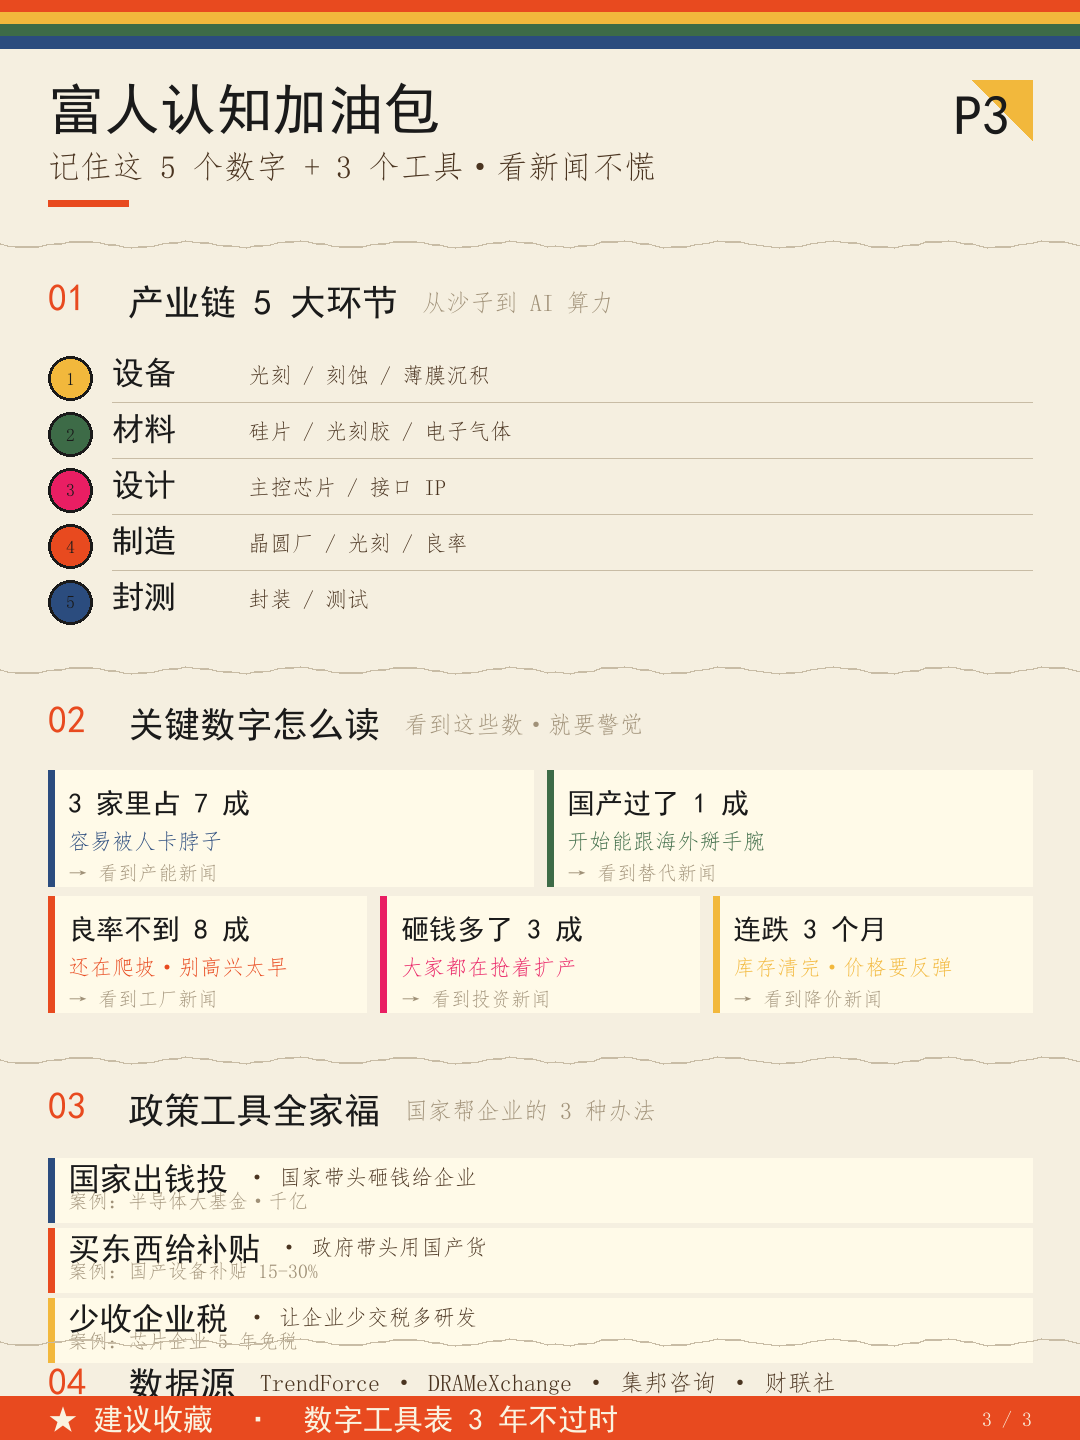
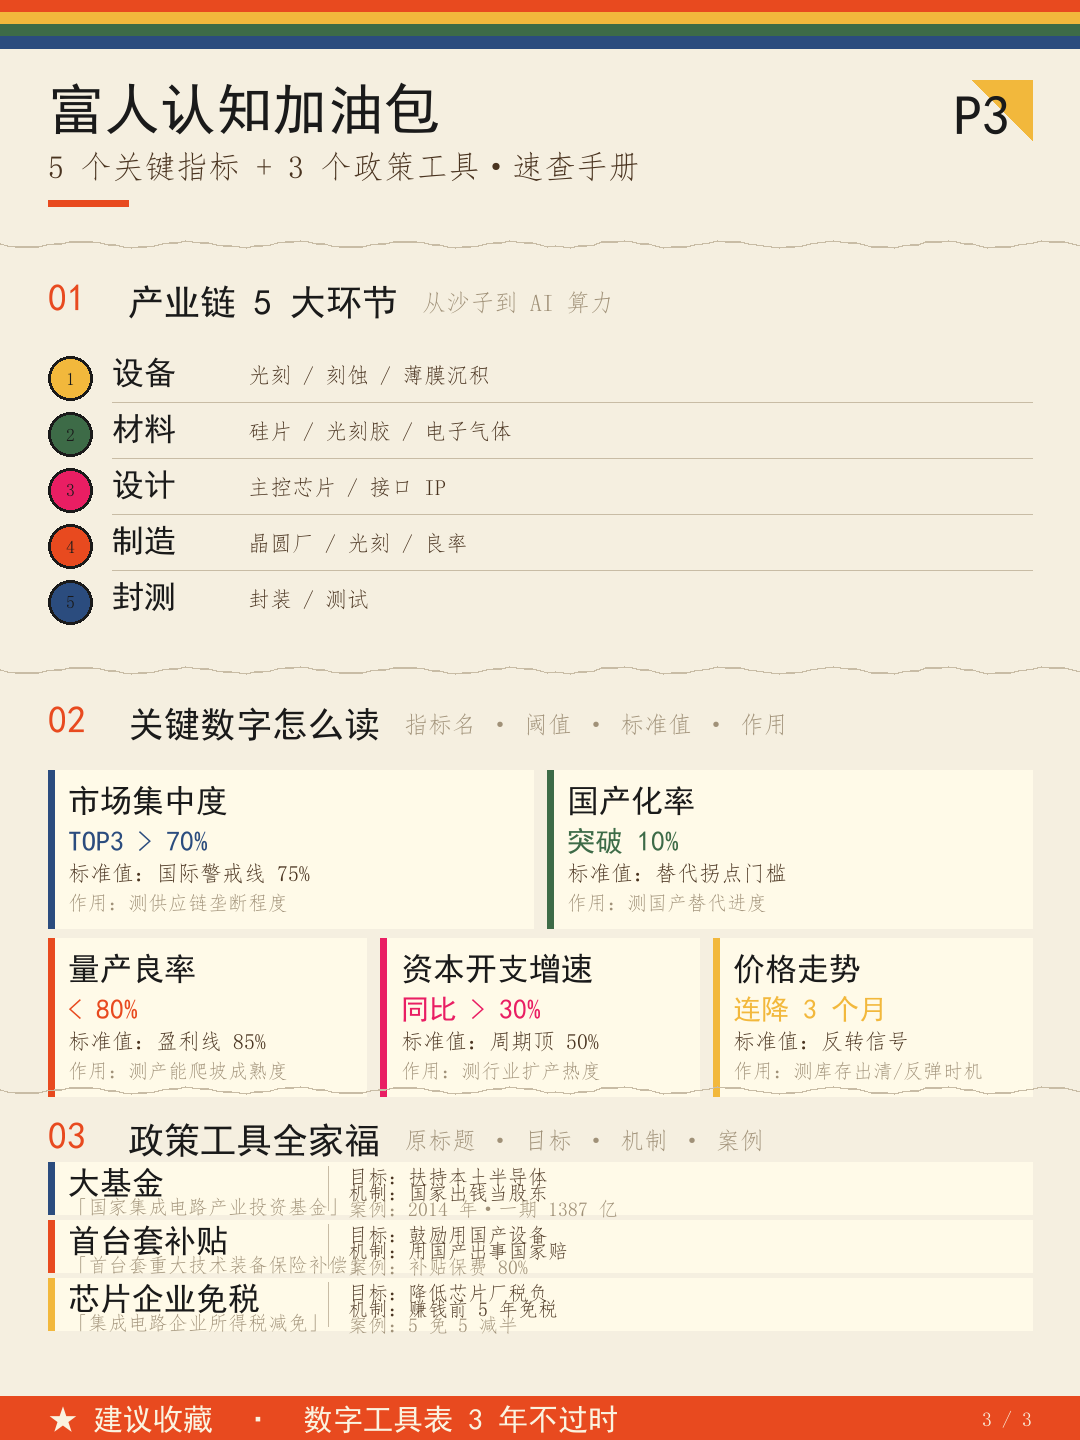
v1.1.4: page3 加信息密度·02指标名+阈值+标准值+作用·03政策全称+目标+机制+案例（砍掉04腾空间）

diff --git a/generate_page3.py b/generate_page3.py
@@ -99,7 +99,7 @@ def make_paper_bg(skeleton_path):
 
 # 顶部标题
 TITLE    = "富人认知加油包"
-SUBTITLE = "记住这 5 个数字 + 3 个工具·看新闻不慌"
+SUBTITLE = "5 个关键指标 + 3 个政策工具·速查手册"
 
 # 01 产业链/逻辑链 5 大环节（保留·已是干货骨架）
 CHAIN = [
@@ -110,25 +110,36 @@ CHAIN = [
     ("5", "封测", "封装 / 测试",             BLUE),
 ]
 
-# 02 关键数字怎么读：5 张速查卡（高于/低于 多少 = 什么信号）
-# 设计：每个数字 = 一句话就能用的判断标尺，下次看到新闻直接套
+# 02 关键数字怎么读：5 张速查卡（指标名 + 阈值 + 业内标准 + 作用）
+# 设计：每个数字 = 指标名 + 阈值 + 标准值 + 作用，下次看到新闻直接套
 # 收藏价值：工具表型·跨场景复用
 SIGNAL_CARDS = [
-    # (判断阈值, 信号含义, 适用场景, 筹码色)
-    ("3 家里占 7 成",   "容易被人卡脖子",        "看到产能新闻",     BLUE),
-    ("国产过了 1 成",  "开始能跟海外掰手腕",     "看到替代新闻",     GREEN),
-    ("良率不到 8 成",  "还在爬坡·别高兴太早",   "看到工厂新闻",     RED),
-    ("砸钱多了 3 成",  "大家都在抢着扩产",       "看到投资新闻",     PINK),
-    ("连跌 3 个月",    "库存清完·价格要反弹",   "看到降价新闻",     YELLOW),
+    # (指标名, 阈值, 标准值/对比, 作用, 筹码色)
+    ("市场集中度",     "TOP3 > 70%",   "国际警戒线 75%", "测供应链垄断程度",         BLUE),
+    ("国产化率",      "突破 10%",     "替代拐点门槛",    "测国产替代进度",           GREEN),
+    ("量产良率",      "< 80%",        "盈利线 85%",      "测产能爬坡成熟度",         RED),
+    ("资本开支增速",  "同比 > 30%",   "周期顶 50%",      "测行业扩产热度",           PINK),
+    ("价格走势",      "连降 3 个月",   "反转信号",        "测库存出清/反弹时机",      YELLOW),
 ]
 
-# 03 政策/产业工具全家福：3 件套（工具 + 用途 + 历史案例）
-# 设计：工具名 + 一句话用途 + 跨主题可换
+# 03 政策/产业工具全家福：3 件套（政策原标题 + 目标 + 机制 + 案例）
 TOOL_BOX = [
-    # (工具名, 用途, 案例, 筹码色)
-    ("国家出钱投",     "国家带头砸钱给企业",     "半导体大基金·千亿",   BLUE),
-    ("买东西给补贴",  "政府带头用国产货",       "国产设备补贴 15-30%", RED),
-    ("少收企业税",     "让企业少交税多研发",     "芯片企业 5 年免税",   YELLOW),
+    # (政策原标题, 目标, 机制, 案例, 筹码色)
+    ("大基金",
+                              "扶持本土半导体",
+                              "国家出钱当股东",
+                              "2014 年·一期 1387 亿",
+                              BLUE),
+    ("首台套补贴",
+                              "鼓励用国产设备",
+                              "用国产出事国家赔",
+                              "补贴保费 80%",
+                              RED),
+    ("芯片企业免税",
+                              "降低芯片厂税负",
+                              "赚钱前 5 年免税",
+                              "5 免 5 减半",
+                              YELLOW),
 ]
 
 # 04 数据源（一行紧凑文字）
@@ -203,7 +214,7 @@ def main():
     d.text((margin, sec2_y), "02", font=SEC_NUM, fill=RED)
     d.text((margin + 80, sec2_y + 6), "关键数字怎么读", font=SEC_NAME, fill=INK)
     d.text((margin + 80 + text_width("关键数字怎么读", SEC_NAME) + 24, sec2_y + 12),
-           "看到这些数·就要警觉", font=SEC_DESC, fill=GRAY)
+           "指标名 · 阈值 · 标准值 · 作用", font=SEC_DESC, fill=GRAY)
 
     # 5 张速查卡（上 2 下 3 排布，避免横向太挤）
     cx0 = margin
@@ -216,10 +227,10 @@ def main():
     row2_n = n_cards - row1_n
     row1_w = (cx1 - cx0 - card_gap * (row1_n - 1)) / row1_n
     row2_w = (cx1 - cx0 - card_gap * (row2_n - 1)) / row2_n
-    card_h = 116
+    card_h = 158
     row_gap = 10
 
-    for i, (threshold, signal, scenario, color) in enumerate(SIGNAL_CARDS):
+    for i, (indicator, threshold, std, role, color) in enumerate(SIGNAL_CARDS):
         if i < row1_n:
             x0 = cx0 + i * (row1_w + card_gap)
             x1 = x0 + row1_w
@@ -234,57 +245,58 @@ def main():
         d.rectangle([x0, y0, x1, y1], fill=LIGHT)
         # 左侧色条
         d.rectangle([x0, y0, x0 + 6, y1], fill=color)
-        # 阈值（大字 hero·黑体）
-        bb = d.textbbox((0, 0), threshold, font=TABLE_LBL)
-        tw = bb[2] - bb[0]
-        d.text((x0 + 20, y0 + 18), threshold, font=TABLE_LBL, fill=INK)
-        # 信号含义（中等字·筹码色）
-        bb = d.textbbox((0, 0), signal, font=ROW_BODY)
-        sw_ = bb[2] - bb[0]
-        d.text((x0 + 20, y0 + 60), signal, font=ROW_BODY, fill=color)
-        # 适用场景（小灰字）
-        d.text((x0 + 20, y0 + 92), "→ " + scenario, font=PLAYER_SUB, fill=GRAY)
+        # 指标名（黑体加粗·一行）
+        d.text((x0 + 20, y0 + 14), indicator, font=ROW_NAME, fill=INK)
+        # 阈值（筹码色·中等字）
+        d.text((x0 + 20, y0 + 56), threshold, font=TABLE_LBL, fill=color)
+        # 标准值/对比（小灰字·含对比基准）
+        d.text((x0 + 20, y0 + 92), "标准值：" + std, font=ROW_BODY, fill=INK_SOFT)
+        # 作用（小灰字）
+        d.text((x0 + 20, y0 + 122), "作用：" + role, font=PLAYER_SUB, fill=GRAY)
 
     # === 撕纸分隔 3 ===
-    torn_line(d, 1060, color=GRAY_LT, sw=2)
+    torn_line(d, 1090, color=GRAY_LT, sw=2)
 
     # ============ 03 政策/产业工具全家福 ============
-    sec3_y = 1086
+    sec3_y = 1116
     d.text((margin, sec3_y), "03", font=SEC_NUM, fill=RED)
     d.text((margin + 80, sec3_y + 6), "政策工具全家福", font=SEC_NAME, fill=INK)
     d.text((margin + 80 + text_width("政策工具全家福", SEC_NAME) + 24, sec3_y + 12),
-           "国家帮企业的 3 种办法", font=SEC_DESC, fill=GRAY)
+           "原标题 · 目标 · 机制 · 案例", font=SEC_DESC, fill=GRAY)
 
-    # 3 件工具箱（3 行堆叠·文字主导）
-    tl_y0 = 1158
-    tl_row_h = 70
+    # 3 件工具箱（3 行堆叠·左右两栏·标题左·详情右）
+    tl_y0 = 1162
+    tl_row_h = 58
     n_tl = len(TOOL_BOX)
     tl_w = W - margin * 2
-    for ti, (tool, use, history, color) in enumerate(TOOL_BOX):
+    for ti, (title, goal, mechanism, case_, color) in enumerate(TOOL_BOX):
         ty = tl_y0 + ti * tl_row_h
         # 行底（极浅）
         d.rectangle([margin, ty, margin + tl_w, ty + tl_row_h - 6], fill=LIGHT)
         # 左侧色条
         d.rectangle([margin, ty, margin + 6, ty + tl_row_h - 6], fill=color)
-        # 工具名（黑体加粗）
-        d.text((margin + 20, ty + 4), tool, font=ROW_NAME, fill=INK)
-        # 用途（中等字·同行右侧）
-        bb = d.textbbox((0, 0), tool, font=ROW_NAME)
-        tw = bb[2] - bb[0]
-        d.text((margin + 20 + tw + 18, ty + 8), "· " + use, font=ROW_BODY, fill=INK_SOFT)
-        # 历史案例（小灰字·下一行）
-        d.text((margin + 20, ty + 32), "案例：" + history,
+        # 政策原标题（黑体·左半·单行）
+        d.text((margin + 20, ty + 4), title, font=ROW_NAME, fill=INK)
+        # 政策全称补注（小灰·副标题位）
+        full_names = {
+            "大基金":     "国家集成电路产业投资基金",
+            "首台套补贴": "首台套重大技术装备保险补偿",
+            "芯片企业免税": "集成电路企业所得税减免",
+        }
+        if title in full_names:
+            d.text((margin + 20, ty + 34), "「" + full_names[title] + "」",
+                   font=PLAYER_SUB, fill=GRAY)
+        # 分隔细线（左/右）
+        d.line([(margin + 280, ty + 4), (margin + 280, ty + tl_row_h - 10)],
+               fill=GRAY_LT, width=1)
+        # 目标 + 机制（同行·右栏上半）
+        d.text((margin + 300, ty + 4), "目标：" + goal,
+               font=PLAYER_SUB, fill=INK_SOFT)
+        d.text((margin + 300, ty + 20), "机制：" + mechanism,
+               font=PLAYER_SUB, fill=INK_SOFT)
+        # 案例（独占下半行·避免与左栏副标题重叠）
+        d.text((margin + 300, ty + 36), "案例：" + case_,
                font=PLAYER_SUB, fill=GRAY)
-
-    # === 撕纸分隔 4 ===
-    torn_line(d, 1342, color=GRAY_LT, sw=2)
-
-    # ============ 04 去哪查数据 ============
-    sec4_y = 1362
-    d.text((margin, sec4_y), "04", font=SEC_NUM, fill=RED)
-    d.text((margin + 80, sec4_y + 4), "数据源", font=SEC_NAME, fill=INK)
-    d.text((margin + 80 + text_width("数据源", SEC_NAME) + 24, sec4_y + 8),
-           DATA_SOURCES, font=SEC_DESC, fill=INK_SOFT)
 
     # === 底部红条 ===
     d.rectangle([0, 1396, W, 1440], fill=RED)

diff --git a/README.md b/README.md
@@ -70,11 +70,10 @@ python generate_page3.py  # 出 page3.png (认知加油包)
 | **产业地图** | 涉及区域/集群 | 大湾区外贸 → 9 市外贸排名与产业分工 |
 | **工具/政策拆解** | 涉及工具/政策 | 隔夜逆回购 → 央行短端工具全家福 |
 
-**4 段标准结构**（工具表型·不点名公司·收藏向）：
+**3 段标准结构**（工具表型·不点名公司·收藏向）：
 1. **01 产业链/逻辑链** — 5 个环节，文字行 + 小编号
-2. **02 关键数字怎么读** — 5 张速查卡，阈值+信号+场景，一眼即用
-3. **03 政策工具全家福** — 3 件套速查，工具名+用途+历史案例
-4. **04 数据源** — 4 个权威数据出处
+2. **02 关键数字怎么读** — 5 张速查卡，每卡含「指标名 + 阈值 + 标准值 + 作用」
+3. **03 政策工具全家福** — 3 件套速查，每条含「政策简称 + 全称注解 + 目标 + 机制 + 案例」
 
 ## 文件结构
 
